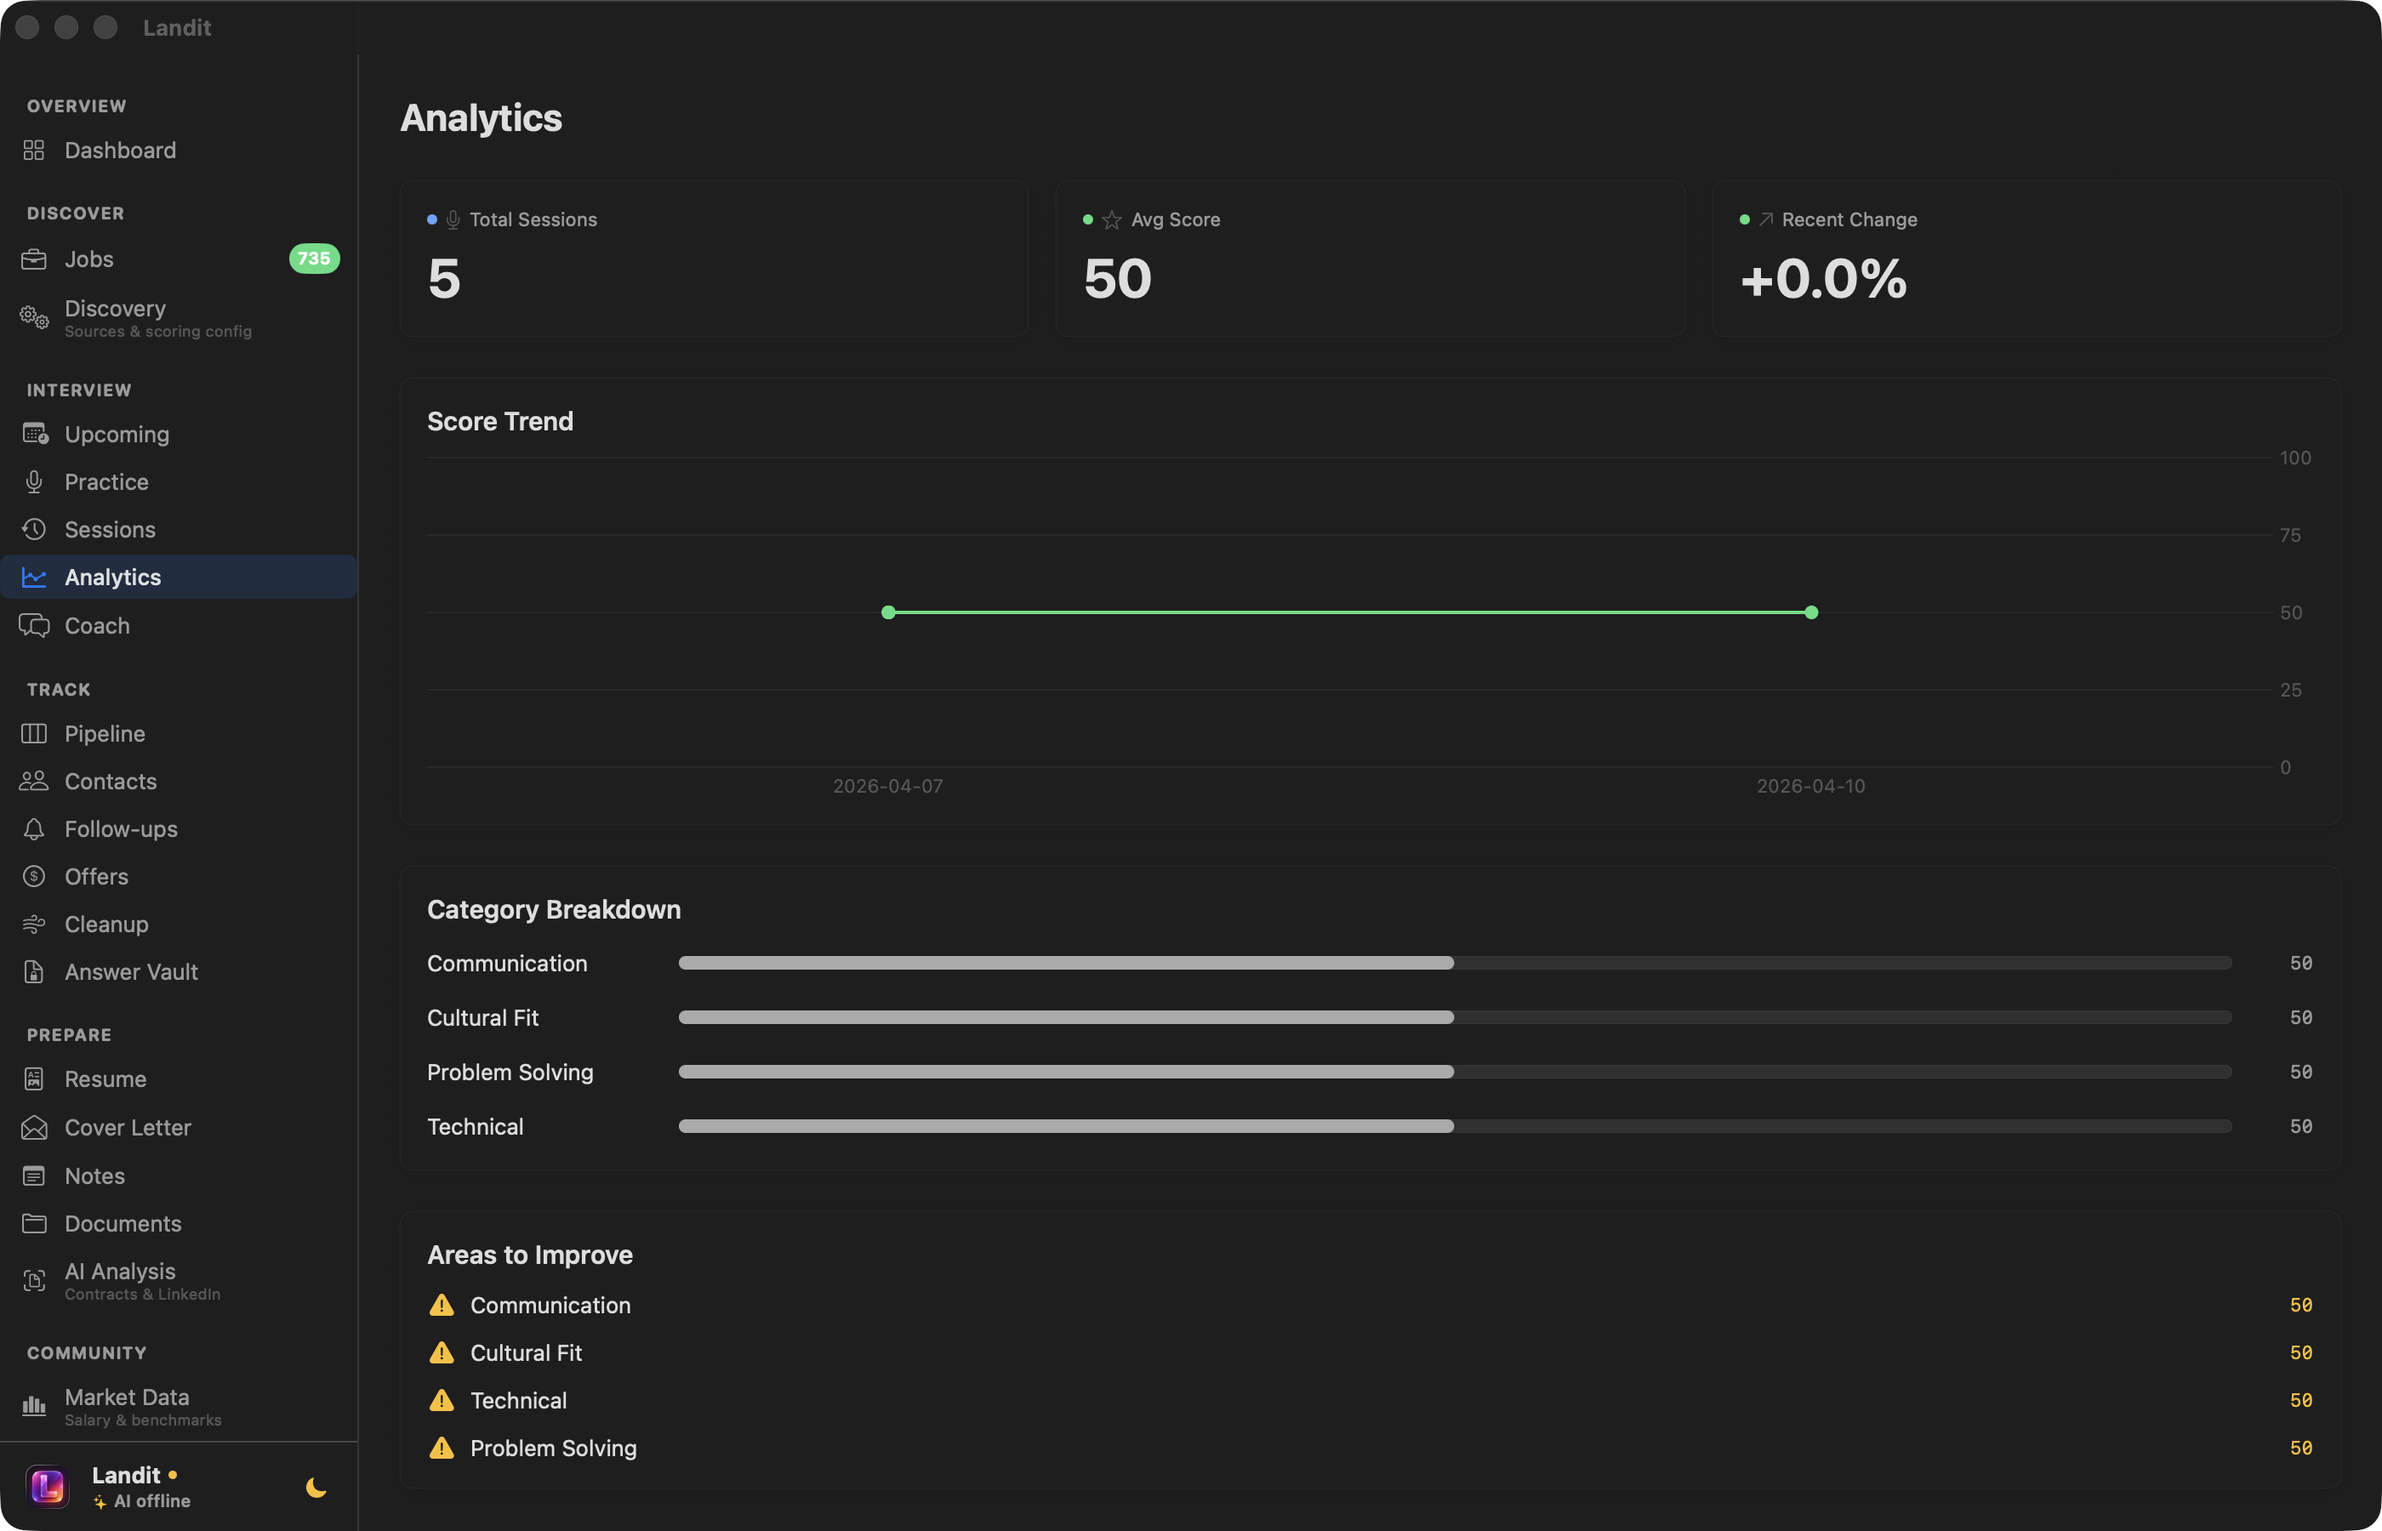
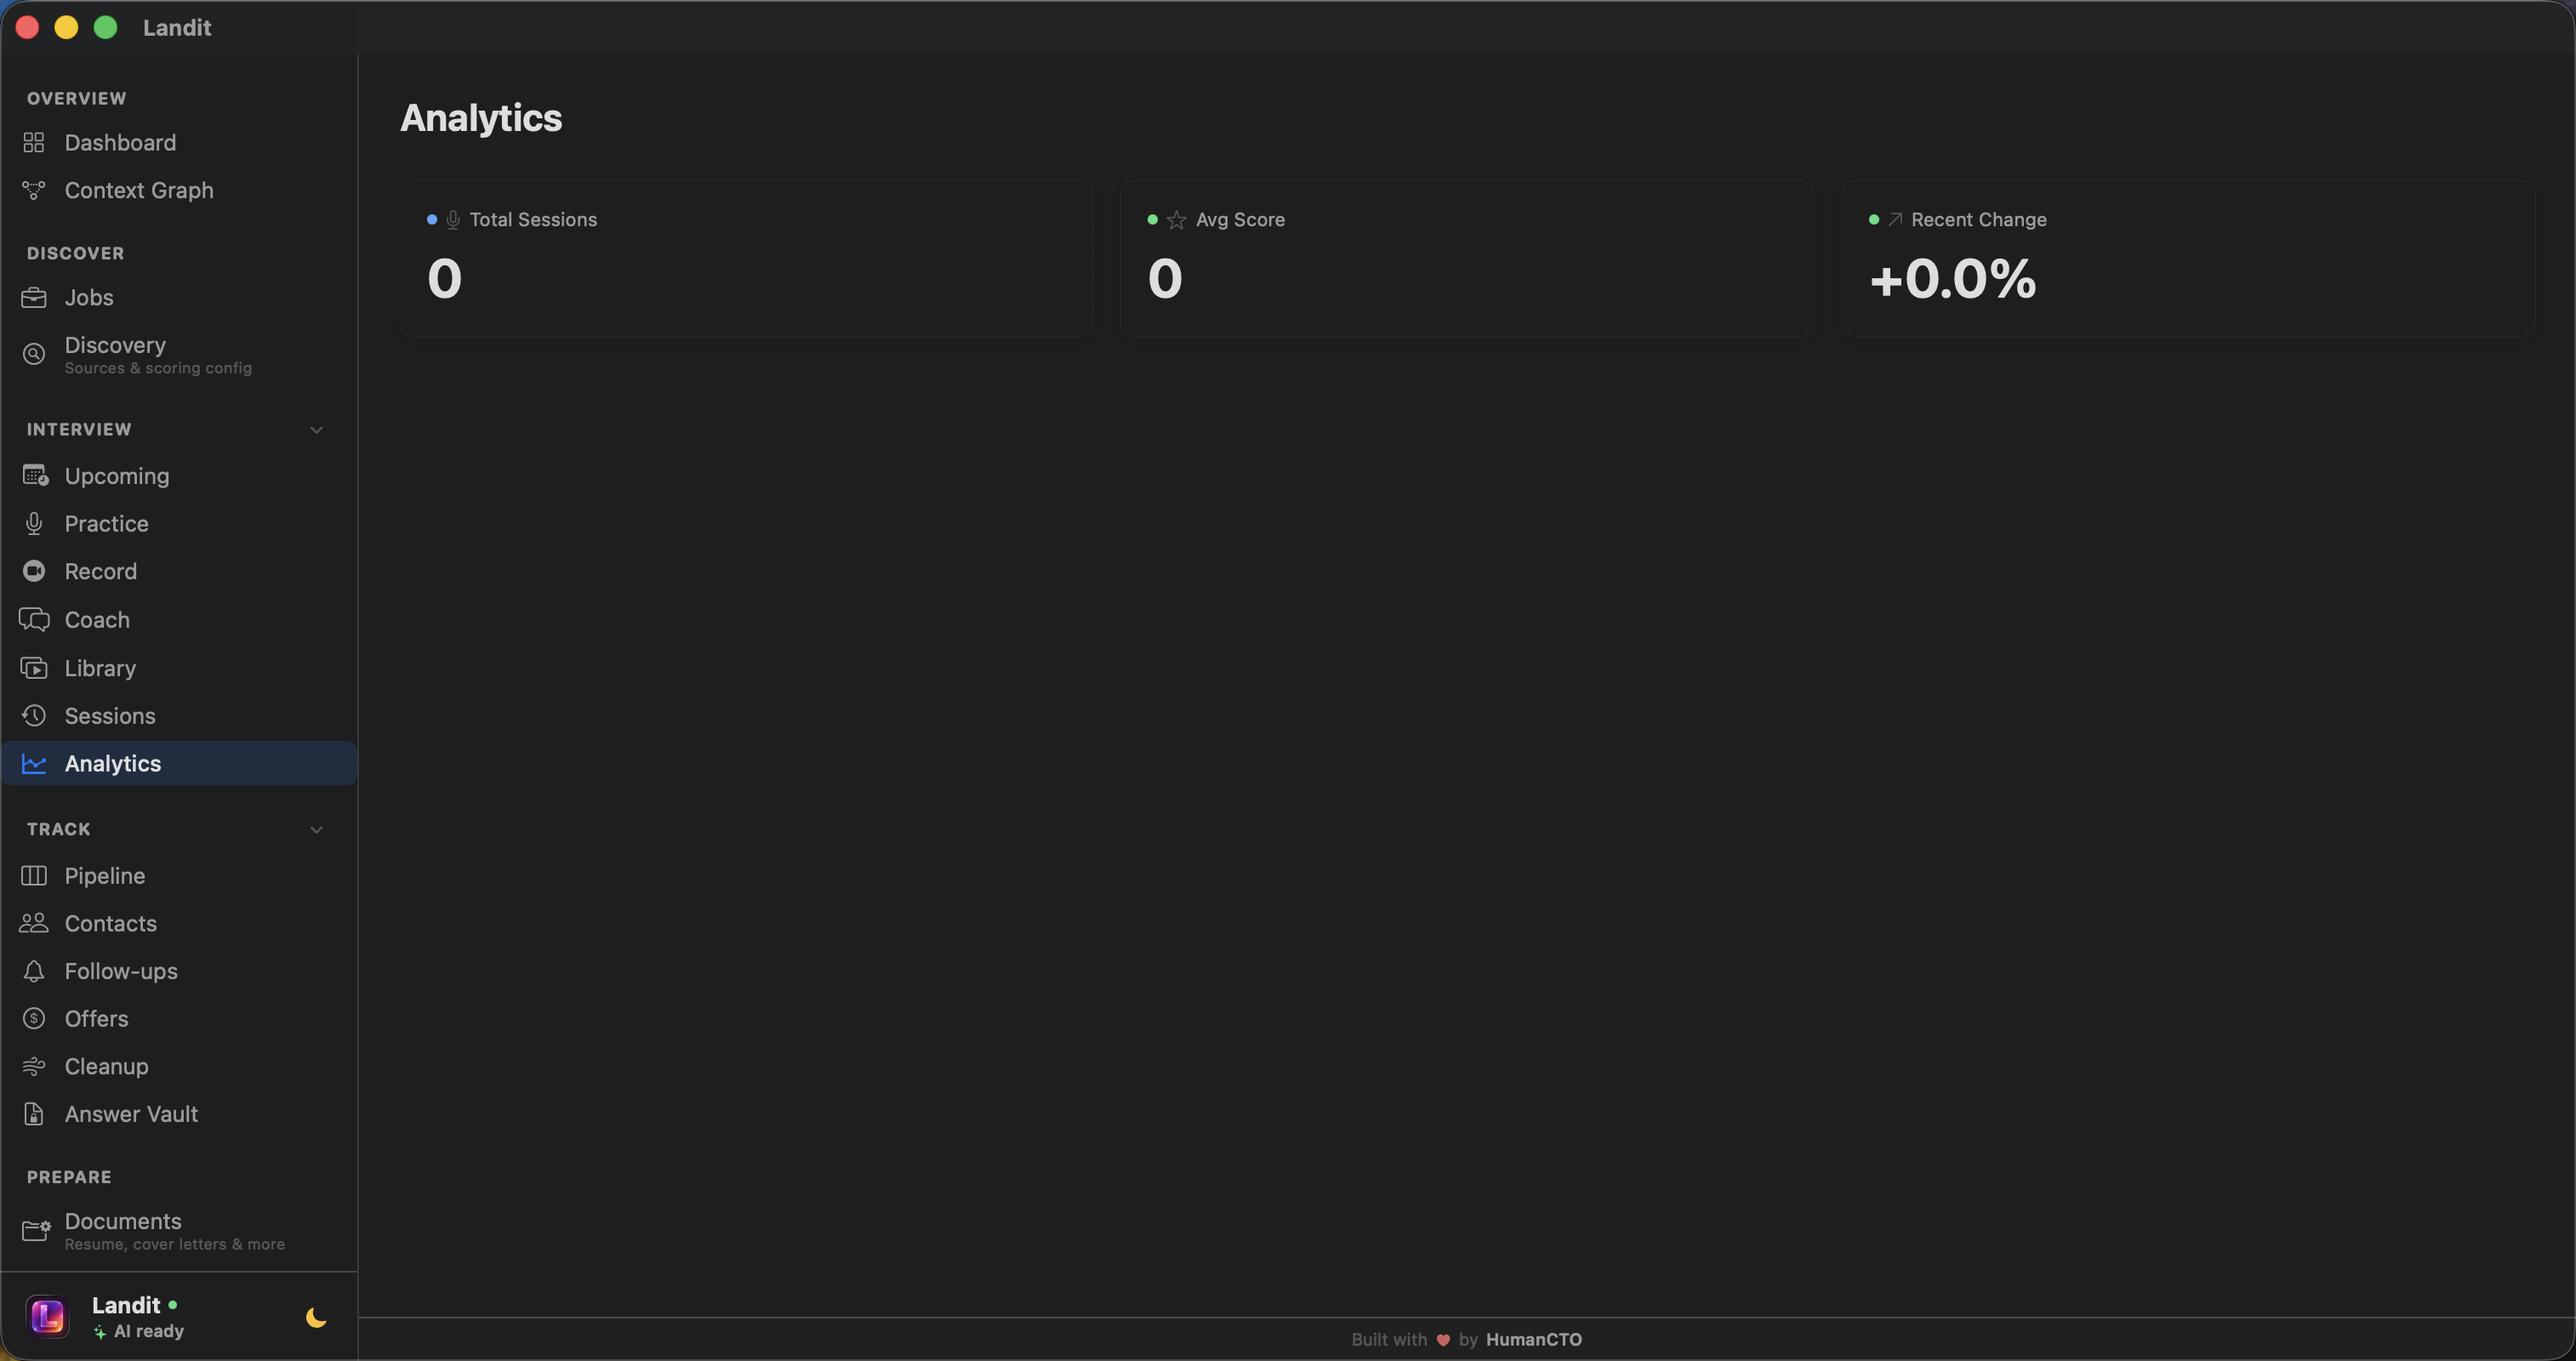
chore: update screenshots and add new section tabs
- Add 11 new screenshots: Library, Sessions, Contacts, Documents,
  Answer Vault, Market Data, Context Graph, Upcoming, Offers,
  Follow-ups, Cleanup
- Update all existing screenshots with latest UI
- Add Dashboard, Library, Sessions, Contacts, Documents, Answer Vault,
  and Market Data tabs to showcase
- Remove old resume.png (replaced by Documents view)

diff --git a/index.html b/index.html
@@ -1017,12 +1017,19 @@
             </div>
             <div class="fade-in fade-in-delay-1">
                 <div class="showcase-tabs" role="tablist">
-                    <button class="showcase-tab active" data-tab="jobs" data-caption="Browse and filter thousands of jobs from LinkedIn, Indeed, Greenhouse, Lever, and more.">Jobs</button>
+                    <button class="showcase-tab active" data-tab="dashboard" data-caption="Your career command center — everything at a glance.">Dashboard</button>
+                    <button class="showcase-tab" data-tab="jobs" data-caption="Browse and filter thousands of jobs from LinkedIn, Indeed, Greenhouse, Lever, and more.">Jobs</button>
                     <button class="showcase-tab" data-tab="discovery" data-caption="AI-powered job discovery surfaces roles you'd never find on your own.">Discovery</button>
                     <button class="showcase-tab" data-tab="pipeline" data-caption="Kanban-style pipeline tracks every application from saved to offer.">Pipeline</button>
                     <button class="showcase-tab" data-tab="practice" data-caption="Live AI mock interviews with voice, video, and real-time feedback.">Interviews</button>
+                    <button class="showcase-tab" data-tab="library" data-caption="Review recorded interview sessions with screen and camera playback.">Library</button>
+                    <button class="showcase-tab" data-tab="sessions" data-caption="Full session history with transcripts, tags, and performance tracking.">Sessions</button>
                     <button class="showcase-tab" data-tab="analytics" data-caption="Detailed analytics on your interview performance over time.">Analytics</button>
                     <button class="showcase-tab" data-tab="coach" data-caption="AI career coach gives personalized advice based on your profile.">Coach</button>
+                    <button class="showcase-tab" data-tab="contacts" data-caption="Track recruiters, hiring managers, and referrals across your network.">Contacts</button>
+                    <button class="showcase-tab" data-tab="documents" data-caption="AI-powered resume analysis, cover letters, LinkedIn scoring, and contract scanning.">Documents</button>
+                    <button class="showcase-tab" data-tab="answer-vault" data-caption="Your one-time setup for Assist Apply — auto-fills the boring fields.">Answer Vault</button>
+                    <button class="showcase-tab" data-tab="market-data" data-caption="Salary benchmarks and market insights from your interview data.">Market Data</button>
                     <button class="showcase-tab" data-tab="settings" data-caption="Configure AI providers, sources, and preferences your way.">Settings</button>
                 </div>
             </div>
@@ -1035,16 +1042,23 @@
                         <span class="window-title">Landit</span>
                     </div>
                     <div class="showcase-images">
-                        <img class="showcase-img active" src="screenshots/jobs.png" alt="Jobs" data-tab="jobs" loading="lazy">
+                        <img class="showcase-img active" src="screenshots/dashboard.png" alt="Dashboard" data-tab="dashboard" loading="eager">
+                        <img class="showcase-img" src="screenshots/jobs.png" alt="Jobs" data-tab="jobs" loading="lazy">
                         <img class="showcase-img" src="screenshots/discovery.png" alt="Discovery" data-tab="discovery" loading="lazy">
                         <img class="showcase-img" src="screenshots/pipeline.png" alt="Pipeline" data-tab="pipeline" loading="lazy">
                         <img class="showcase-img" src="screenshots/practice.png" alt="Interviews" data-tab="practice" loading="lazy">
+                        <img class="showcase-img" src="screenshots/library.png" alt="Library" data-tab="library" loading="lazy">
+                        <img class="showcase-img" src="screenshots/sessions.png" alt="Sessions" data-tab="sessions" loading="lazy">
                         <img class="showcase-img" src="screenshots/analytics.png" alt="Analytics" data-tab="analytics" loading="lazy">
                         <img class="showcase-img" src="screenshots/coach.png" alt="Coach" data-tab="coach" loading="lazy">
+                        <img class="showcase-img" src="screenshots/contacts.png" alt="Contacts" data-tab="contacts" loading="lazy">
+                        <img class="showcase-img" src="screenshots/documents.png" alt="Documents" data-tab="documents" loading="lazy">
+                        <img class="showcase-img" src="screenshots/answer-vault.png" alt="Answer Vault" data-tab="answer-vault" loading="lazy">
+                        <img class="showcase-img" src="screenshots/market-data.png" alt="Market Data" data-tab="market-data" loading="lazy">
                         <img class="showcase-img" src="screenshots/settings.png" alt="Settings" data-tab="settings" loading="lazy">
                     </div>
                 </div>
-                <p class="showcase-caption">Browse and filter thousands of jobs from LinkedIn, Indeed, Greenhouse, Lever, and more.</p>
+                <p class="showcase-caption">Your career command center — everything at a glance.</p>
             </div>
         </div>
     </section>
